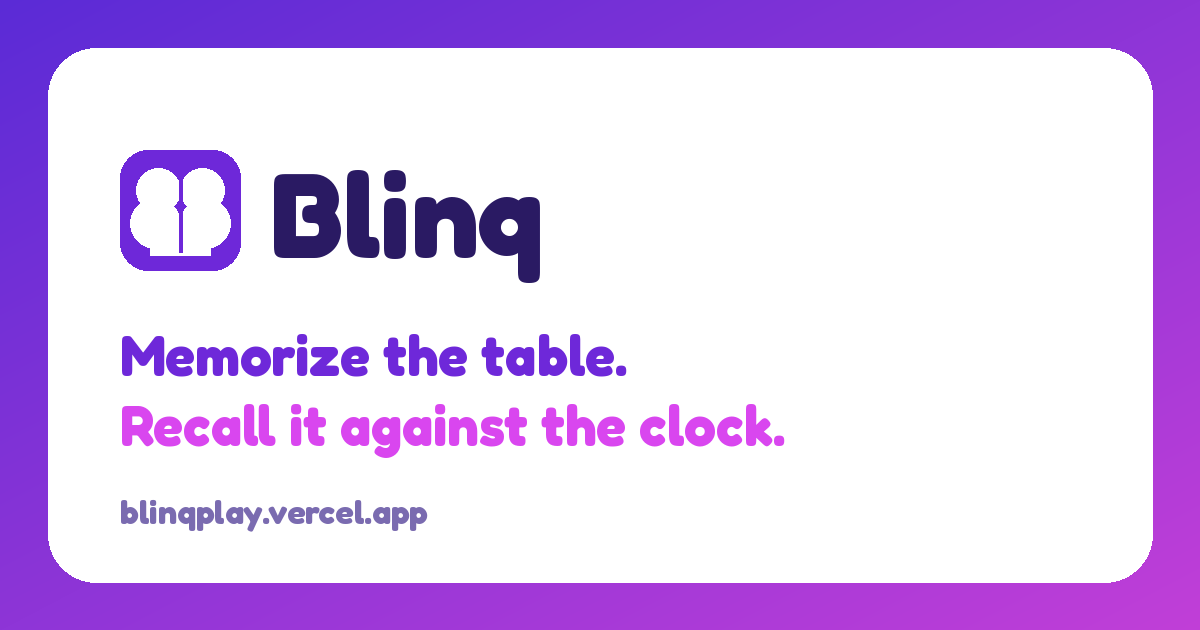
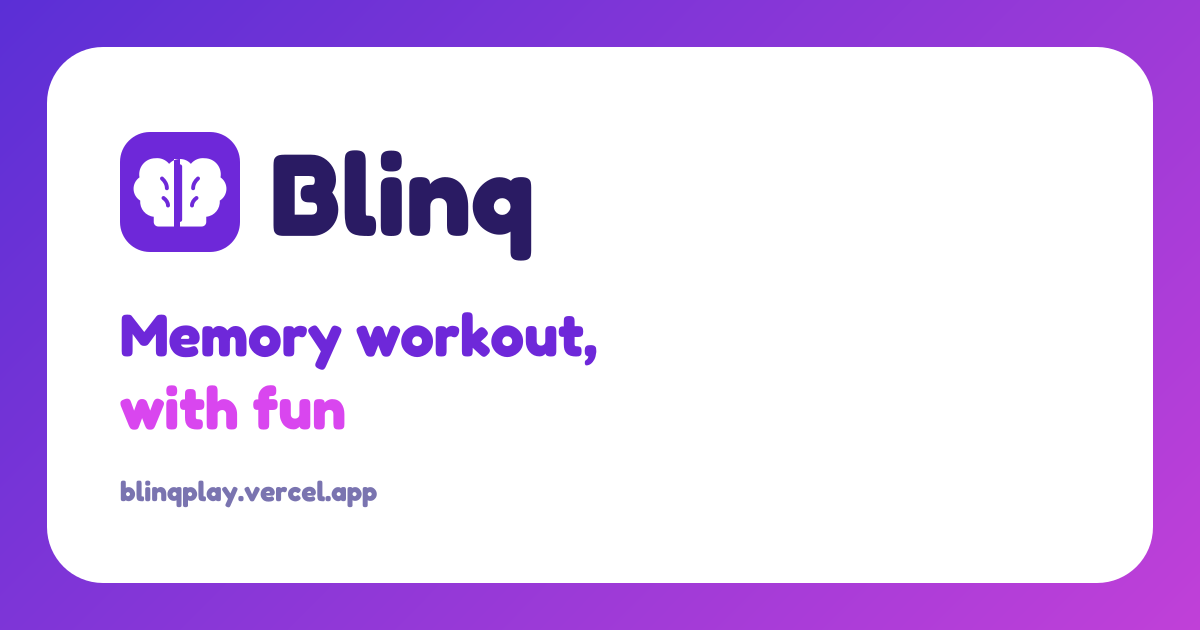
feat(brand): update headline to "Memory workout, with fun"

diff --git a/src/app/layout.tsx b/src/app/layout.tsx
@@ -11,20 +11,20 @@ const fredoka = Fredoka({
 
 export const metadata: Metadata = {
   title: "Blinq — memory game",
-  description: "Memorize the table. Recall it against the clock. Come back tomorrow for a new one.",
+  description: "Memory workout, with fun",
   metadataBase: new URL("https://blinqplay.vercel.app"),
   openGraph: {
     title: "Blinq — memory game",
-    description: "Memorize the table. Recall it against the clock. Come back tomorrow for a new one.",
+    description: "Memory workout, with fun",
     url: "/",
     siteName: "Blinq",
     type: "website",
-    images: [{ url: "/og.png", width: 1200, height: 630, alt: "Blinq — Memorize the table. Recall it against the clock." }],
+    images: [{ url: "/og.png", width: 1200, height: 630, alt: "Blinq — Memory workout, with fun" }],
   },
   twitter: {
     card: "summary_large_image",
     title: "Blinq — memory game",
-    description: "Memorize the table. Recall it against the clock. Come back tomorrow for a new one.",
+    description: "Memory workout, with fun",
     images: ["/og.png"],
   },
 };

diff --git a/src/components/game/HomeScreen.tsx b/src/components/game/HomeScreen.tsx
@@ -131,7 +131,7 @@ export function HomeScreen({ stats, today, guest, onSignIn, onPlayLevel, onPlayD
           Blinq
         </h1>
         <p className="mx-auto mt-2 max-w-xs text-muted-foreground">
-          Memorize the table. Recall it against the clock. Come back tomorrow for a new one.
+          Memory workout, with fun
         </p>
       </div>
 
